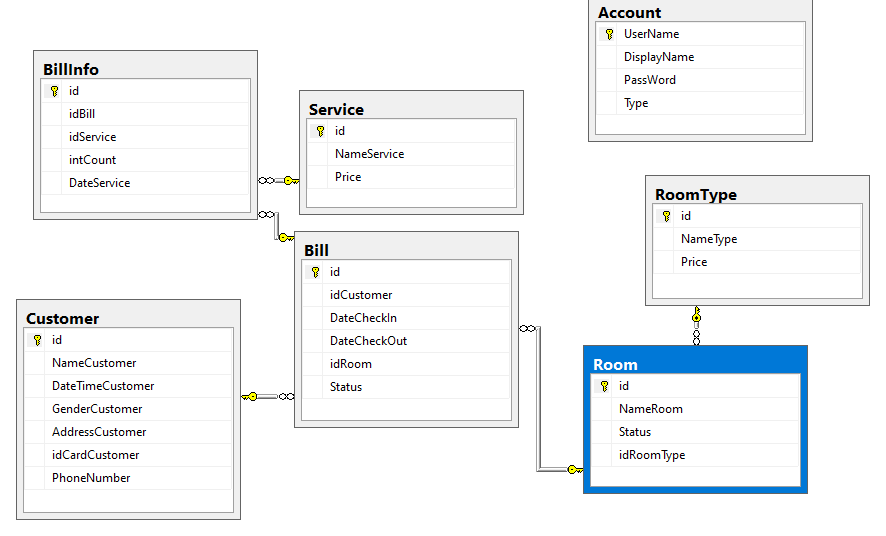
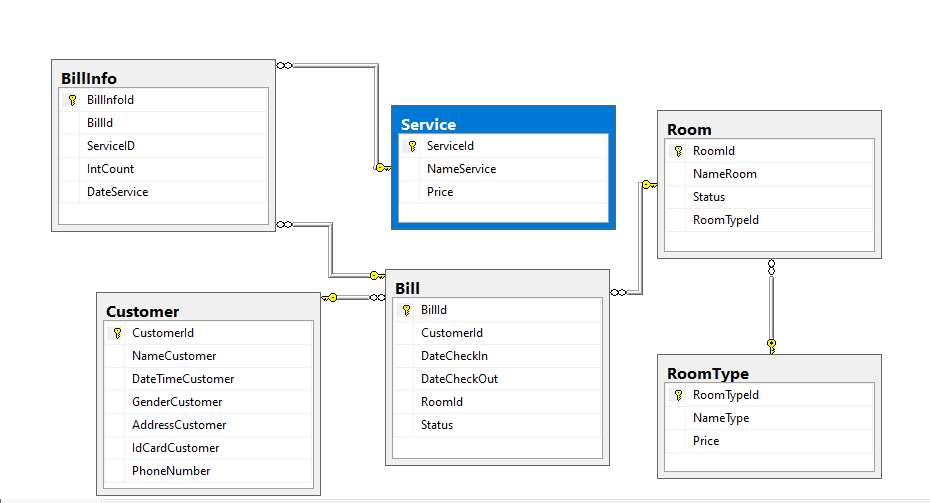
q

diff --git a/QLKS_NHOM1/QLKS_NHOM1/Models/Customer.cs b/QLKS_NHOM1/QLKS_NHOM1/Models/Customer.cs
@@ -9,24 +9,24 @@ namespace QLKS_NHOM1.Models
 {
     class Customer
     {
-        public int id { set; get; }
+        public int CustomerId { set; get; }
         public string NameCustomer { set; get; }
         public DateTime DateTimeCustomer { set; get; }
         public string GenderCustomer { set; get; }
         public string AddressCustomer { set; get; }
-        public string idCardCustomer { set; get; }
+        public string IdCardCustomer { set; get; }
         public string PhoneNumber { set; get; }
        
 
         public Customer() { }
         public Customer(DataRow dataRow)
         {
-            this.id = Int32.Parse(dataRow["id"].ToString());
+            this.CustomerId = Int32.Parse(dataRow["CustomerId"].ToString());
             this.NameCustomer = dataRow["NameCustomer"].ToString();
             this.DateTimeCustomer = DateTime.Parse(dataRow["DateTimeCustomer"].ToString());
             this.GenderCustomer = dataRow["GenderCustomer"].ToString();
             this.AddressCustomer = dataRow["AddressCustomer"].ToString();
-            this.idCardCustomer = dataRow["idCardCustomer"].ToString();
+            this.IdCardCustomer = dataRow["IdCardCustomer"].ToString();
             this.PhoneNumber = dataRow["PhoneNumber"].ToString();
 
         }

diff --git a/QLKS_NHOM1/QLKS_NHOM1/Models/BillInfo.cs b/QLKS_NHOM1/QLKS_NHOM1/Models/BillInfo.cs
@@ -9,11 +9,11 @@ namespace QLKS_NHOM1.Models
 {
     class BillInfo
     {
-        public int id { set; get; }
-        public int idBill { set; get; }
-        public int idService { set; get; }
+        public int BillInfoId { set; get; }
+        public int BillId { set; get; }
+        public int ServiceId { set; get; }
         
-        public int intCount { set; get; }
+        public int IntCount { set; get; }
 
         public DateTime DateService { set; get; }
      
@@ -21,10 +21,10 @@ namespace QLKS_NHOM1.Models
         public BillInfo() { }
         public BillInfo(DataRow dataRow)
         {
-            this.id = Int32.Parse(dataRow["id"].ToString());
-            this.idBill = Int32.Parse(dataRow["idBill"].ToString());
-            this.idService = Int32.Parse(dataRow["idService"].ToString());
-            this.intCount = Int32.Parse(dataRow["intCount"].ToString());
+            this.BillInfoId = Int32.Parse(dataRow["BillInfoId"].ToString());
+            this.BillId = Int32.Parse(dataRow["BillId"].ToString());
+            this.ServiceId = Int32.Parse(dataRow["ServiceId"].ToString());
+            this.IntCount = Int32.Parse(dataRow["IntCount"].ToString());
             this.DateService = DateTime.Parse(dataRow["DateService"].ToString());
 
         }

diff --git a/QLKS_NHOM1/QLKS_NHOM1/Models/Bill.cs b/QLKS_NHOM1/QLKS_NHOM1/Models/Bill.cs
@@ -9,12 +9,12 @@ namespace QLKS_NHOM1.Models
 {
     class Bill
     {
-        public int id { set; get; }
-        public int idCustomer { set; get; }
+        public int BillId { set; get; }
+        public int CustomerId { set; get; }
         public DateTime DateCheckIn { set; get; }
 
         public DateTime DateCheckOut { set; get; }
-        public int idRoom { set; get; }
+        public int RoomId { set; get; }
 
         public int Status { set; get; }
 
@@ -22,11 +22,11 @@ namespace QLKS_NHOM1.Models
         public Bill() { }
         public Bill(DataRow dataRow)
         {
-            this.id = Int32.Parse(dataRow["id"].ToString());
-            this.idCustomer = Int32.Parse(dataRow["idCustomer"].ToString());
+            this.BillId = Int32.Parse(dataRow["BillId"].ToString());
+            this.CustomerId = Int32.Parse(dataRow["CustomerId"].ToString());
             this.DateCheckIn = DateTime.Parse(dataRow["DateCheckIn"].ToString());
             this.DateCheckOut = DateTime.Parse(dataRow["DateCheckOut"].ToString());
-            this.idRoom = Int32.Parse(dataRow["idRoom"].ToString());
+            this.RoomId = Int32.Parse(dataRow["RoomId"].ToString());
             this.Status = Int32.Parse(dataRow["Status"].ToString());
            
             

diff --git a/QLKS_NHOM1/QLKS_NHOM1/Models/Room.cs b/QLKS_NHOM1/QLKS_NHOM1/Models/Room.cs
@@ -9,20 +9,20 @@ namespace QLKS_NHOM1.Models
 {
     class Room
     {
-        public int id { set; get; }
+        public int RoomId { set; get; }
         public string NameRoom { set; get; }
      
         public int Status { set; get; }
        
-        public int idRoomType { set; get; }
+        public int RoomTypeId { set; get; }
       
         public Room() { }
         public Room(DataRow dataRow)
         {
-            this.id = Int32.Parse(dataRow["id"].ToString());
+            this.RoomId = Int32.Parse(dataRow["RoomId"].ToString());
             this.NameRoom = dataRow["NameRoom"].ToString();
             this.Status = Int32.Parse(dataRow["Status"].ToString());
-            this.idRoomType = Int32.Parse(dataRow["idRoomType"].ToString());
+            this.RoomTypeId = Int32.Parse(dataRow["RoomTypeId"].ToString());
         }
     }
 }

diff --git a/QLKS_NHOM1/QLKS_NHOM1/Models/Service.cs b/QLKS_NHOM1/QLKS_NHOM1/Models/Service.cs
@@ -9,7 +9,7 @@ namespace QLKS_NHOM1.Models
 {
     class Service
     {
-        public int id { set; get; }
+        public int ServiceId { set; get; }
         public string NameService { set; get; }
         public int Price { set; get; }
        
@@ -17,7 +17,7 @@ namespace QLKS_NHOM1.Models
         public Service() { }
         public Service(DataRow dataRow)
         {
-            this.id = Int32.Parse(dataRow["id"].ToString());
+            this.ServiceId = Int32.Parse(dataRow["ServiceId"].ToString());
             this.NameService = dataRow["NameService"].ToString();
             this.Price = Int32.Parse(dataRow["Price"].ToString());
            

diff --git a/QLKS_NHOM1/QLKS_NHOM1/Models/RoomType.cs b/QLKS_NHOM1/QLKS_NHOM1/Models/RoomType.cs
@@ -9,13 +9,13 @@ namespace QLKS_NHOM1.Models
 {
     class RoomType
     {
-        public int id { set; get; }
+        public int TypeRoomId { set; get; }
         public string NameType { set; get; }
         public int Price { set; get; }
         
         public RoomType(DataRow dataRow)
         {
-            this.id = Int32.Parse(dataRow["id"].ToString());
+            this.TypeRoomId = Int32.Parse(dataRow["TypeRoomId"].ToString());
             this.NameType = dataRow["NameType"].ToString();
             this.Price = Int32.Parse(dataRow["Price"].ToString());
         
